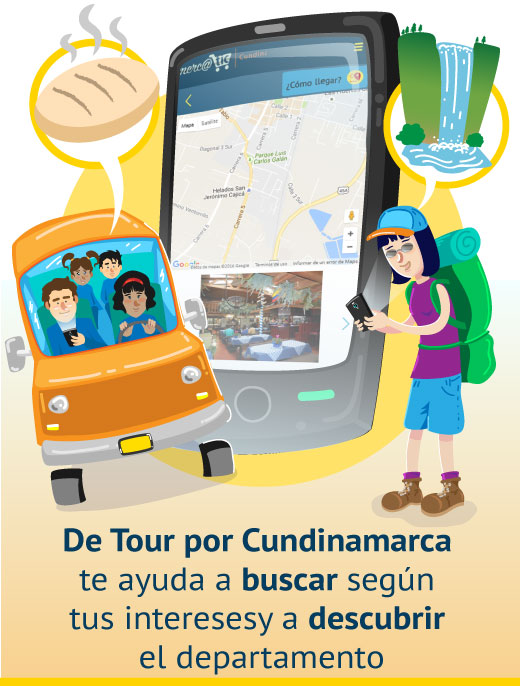
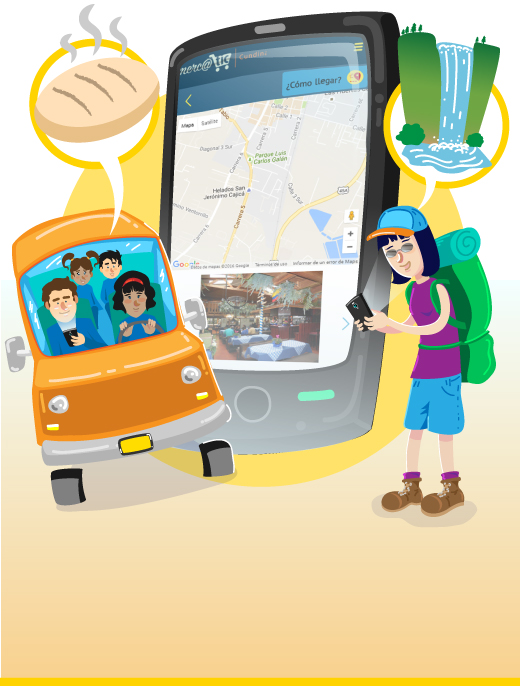
Se agrega texto sobre las imágenes de cómo funciona

Changed region(s): [[0.1231, 0.7653, 0.8615, 0.9796], [0.2769, 0.4592, 0.3077, 0.4898], [0.2154, 0.398, 0.2462, 0.4286]]

diff --git a/public/js/howItWorks/howitworks.css b/public/js/howItWorks/howitworks.css
@@ -15,6 +15,28 @@
     padding: 20px 0;
 }
 
+.how-it-works-container .description {
+    font-size: 6vw;
+    font-weight: bolder;
+    color: #097da6;
+    /*line-height: 20px;*/
+    position: absolute;
+    right: 25px;
+    left: 25px;
+}
+
+.description1 {
+    bottom: 12vw;
+}
+
+.description2 {
+    bottom: 6vw;
+}
+
+.description3 {
+    bottom: 12vw;
+}
+
 @media (min-width: 768px) {
     .how-it-works-container .title {
         font-size: 30px;
@@ -23,16 +45,40 @@
     .how-it-works-container .images-section {
         margin: 15px auto;
     }
+
+    .how-it-works-container .description {
+
+    }
 }
 
 @media (min-width: 992px) {
     .how-it-works-container .title {
         font-size: 30px;
     }
+
+    .how-it-works-container .description {
+        font-size: 18px;
+    }
+
+    .description1 {
+        bottom: 40px;
+    }
+
+    .description2 {
+        bottom: 30px;
+    }
+
+    .description3 {
+        bottom: 50px;
+    }
 }
 
 @media (min-width: 1200px) {
     .how-it-works-container .title {
-        font-size: 30px;
+        font-size: 35px;
+    }
+
+    .how-it-works-container .description {
+        font-size: 20px;
     }
 }

diff --git a/public/js/howItWorks/howItWorks.html b/public/js/howItWorks/howItWorks.html
@@ -4,11 +4,14 @@
         <h1 class="col-sm-12 text-center title" translate="HOW_IT_WORKS.TITLE"></h1>
         <div class="col-sm-12 col-md-4">
             <img src="images/howItWorks/turista1.jpg">
+            <h1 class="description1 description" translate="HOW_IT_WORKS.DESCRIPTION_1"></h1>
         </div>
         <div class="col-sm-12 col-md-4">
             <img src="images/howItWorks/turista2.jpg">
+            <h1 class="description description2" translate="HOW_IT_WORKS.DESCRIPTION_2"></h1>
         </div>
         <div class="col-sm-12 col-md-4">
+            <h1 class="description description3" translate="HOW_IT_WORKS.DESCRIPTION_3"></h1>
             <img src="images/howItWorks/turista3.jpg">
         </div>
     </div>
